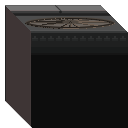
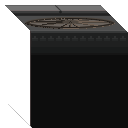
Added invisible tiles and fixed ladder climbing speed

Changed region(s): [[0.0312, 0.0312, 0.25, 0.9688]]

diff --git a/Brainless/Brainless/LadderItem.cpp b/Brainless/Brainless/LadderItem.cpp
@@ -66,7 +66,7 @@ void LadderItem::update(float deltaTime, Game &game)
 {
 	if (m_inUse)
 	{
-		m_lerpValue += deltaTime;
+		m_lerpValue += (deltaTime / getSprite().getGlobalBounds().height) * 250.f;//*(1.0f - getSprite().getGlobalBounds().height / 1280.f);
 
 		// Just make sure player is relatively near ladder to begin climbing
 		if (!m_reachedStartPos)
@@ -94,16 +94,15 @@ void LadderItem::update(float deltaTime, Game &game)
 		}
 		else
 		{
+			//sf::Vector2f vecToEnd = m_endPos - game.getPlayer().getPosition();
+			//float distanceToEnd = std::sqrt(vecToEnd.x*vecToEnd.x + vecToEnd.y*vecToEnd.y);
+
 
 			sf::Vector2f lerpToEnd = sf::Vector2f(0, 0);
 			lerpToEnd.x = m_startPos.x + (m_endPos.x - m_startPos.x) * m_lerpValue;
 			lerpToEnd.y = m_startPos.y + (m_endPos.y - m_startPos.y) * m_lerpValue;
 
-			// Lerp towards end
 			game.getPlayer().setPosition(lerpToEnd);
-
-			sf::Vector2f vecToEnd = m_endPos - game.getPlayer().getPosition();
-			float distanceToEnd = std::sqrt(vecToEnd.x*vecToEnd.x + vecToEnd.y*vecToEnd.y);
 
 			// Player has reached end of ladder
 			if (m_lerpValue >= 1.f)

diff --git a/Brainless/Brainless/Tile.cpp b/Brainless/Brainless/Tile.cpp
@@ -7,6 +7,7 @@ Tile::Tile(const sf::FloatRect &bounds, TileTypes tileType, const sf::Vector2f &
 m_type(tileType),
 m_tileSprite(),
 m_bounds(bounds),
+m_editorVisibleOnly(false),
 m_tilt(false),
 m_platform(false),
 m_autotilingRange("")
@@ -56,6 +57,11 @@ bool Tile::getPlatform() const
 {
 	return m_platform;
 }
+bool Tile::getEditorVisibleOnly() const
+{
+	return m_editorVisibleOnly;
+}
+
 std::string Tile::getAutotilingRangeName() const
 {
 	return m_autotilingRange;
@@ -66,6 +72,7 @@ void Tile::updateType()
 	m_autotilingRange = "";
 	m_tilt = false;
 	m_platform = false;
+	m_editorVisibleOnly = false;
 
 	switch (m_type)
 	{
@@ -437,6 +444,11 @@ void Tile::updateType()
 		break;
 	case Wood_Corner_Full:
 		m_tileSprite.setTexture(ResourceLoader::instance().retrieveTexture("Wood_Corner_Full"));  m_autotilingRange = "WoodAutotiling";
+		break;
+
+	case Solid_Invisible:
+		m_tileSprite.setTexture(ResourceLoader::instance().retrieveTexture("SolidInvisibleCube"));
+		m_editorVisibleOnly = true;
 		break;
 		
 	default:

diff --git a/Brainless/Brainless/Tile.h b/Brainless/Brainless/Tile.h
@@ -140,7 +140,9 @@ public:
 		Wood_Corner_Not_TopRight = 137,
 		Wood_Corner_Not_DownLeft = 138,
 		Wood_Corner_Not_DownRight = 139,
-		Wood_Corner_Full = 140
+		Wood_Corner_Full = 140,
+
+		Solid_Invisible = 500
 	};
 
 	// Position/size of collision, tile type and offset for sprite
@@ -158,6 +160,7 @@ public:
 	TileTypes getType() const;
 	bool getTilt() const;
 	bool getPlatform() const;
+	bool getEditorVisibleOnly() const;
 
 	// Get name of autotiling range
 	std::string getAutotilingRangeName() const;
@@ -166,6 +169,8 @@ public:
 	sf::Sprite& getSprite();
 
 private:
+
+	bool m_editorVisibleOnly;
 	bool m_tilt;
 	bool m_platform;
 	std::string m_autotilingRange; // Name of autotiling range

diff --git a/Brainless/Brainless/TileMap.cpp b/Brainless/Brainless/TileMap.cpp
@@ -26,7 +26,7 @@ m_tileSize(tileSize)
 	}
 }
 
-void TileMap::draw(const sf::View &view)
+void TileMap::draw(const sf::View &view, bool editorMode)
 {
 	sf::Vector2f topLeft(
 		view.getCenter().x - view.getSize().x / 2,
@@ -61,8 +61,14 @@ void TileMap::draw(const sf::View &view)
 
 	// Render tiles from bottom right to top left
 	for (int x = startIndex.x; x >= endIndex.x; x--)
+	{
 		for (int y = startIndex.y; y >= endIndex.y; y--)
-			m_tileMap[x][y].draw();
+		{
+			Tile &tile = m_tileMap[x][y];
+			if (editorMode || !tile.getEditorVisibleOnly())
+				tile.draw();
+		}
+	}
 }
 
 // Converts a position to an index in the grid

diff --git a/Brainless/Brainless/Level.cpp b/Brainless/Brainless/Level.cpp
@@ -128,9 +128,9 @@ void Level::update(float deltaTime, Game &game)
 	updateUnitCollision(deltaTime, game);
 }
 
-void Level::draw(const sf::View &cameraView)
+void Level::draw(const sf::View &cameraView, bool editorMode)
 {
-	m_tileMap->draw(cameraView);
+	m_tileMap->draw(cameraView, editorMode);
 	//Find the screens percentual position on the screen
 	float screen_x = (cameraView.getCenter().x - (cameraView.getSize().x* 0.5)) / (3840 - cameraView.getSize().x),
 		screen_y = (cameraView.getCenter().y - (cameraView.getSize().y* 0.5)) / (1440 - cameraView.getSize().y);

diff --git a/Brainless/Brainless/TileMap.h b/Brainless/Brainless/TileMap.h
@@ -14,7 +14,7 @@ public:
 	explicit TileMap(TileMapLayout layout, const unsigned int tileSize);
 
 	// Draws the tile grid and crops it against the specified camera
-	void draw(const sf::View &view);
+	void draw(const sf::View &view, bool editorMode);
 
 	// Converts a position to an index in the grid
 	sf::Vector2i positionToIndex(const sf::Vector2f &position) const;

diff --git a/Brainless/Brainless/Level.h b/Brainless/Brainless/Level.h
@@ -43,7 +43,7 @@ public:
 	void reset();
 
 	void update(float deltaTime, Game &game);
-	void draw(const sf::View &cameraView);
+	void draw(const sf::View &cameraView, bool editorMode = false);
 
 	TileMap& getTileMap();
 	const std::vector<ItemPtr>& getItems() const;

diff --git a/Brainless/Brainless/Editor.cpp b/Brainless/Brainless/Editor.cpp
@@ -328,7 +328,7 @@ void Editor::loop()
 void Editor::draw()
 {
 	Renderer::instance().drawBackground(m_editorBackground);
-	m_level.draw(m_camera);
+	m_level.draw(m_camera, true);
 
 	switch (m_editorMode)
 	{

diff --git a/Brainless/Brainless/EditorGridMode.cpp b/Brainless/Brainless/EditorGridMode.cpp
@@ -53,6 +53,7 @@ m_currentTile(sf::FloatRect(100, 100, 0, 0), Tile::Ground, sf::Vector2f(Constant
 		Tile::Blue,
 		Tile::Tilt,
 		Tile::Platform,
+		Tile::Solid_Invisible,
 
 		/*
 		Tile::Road_Top_Right,
